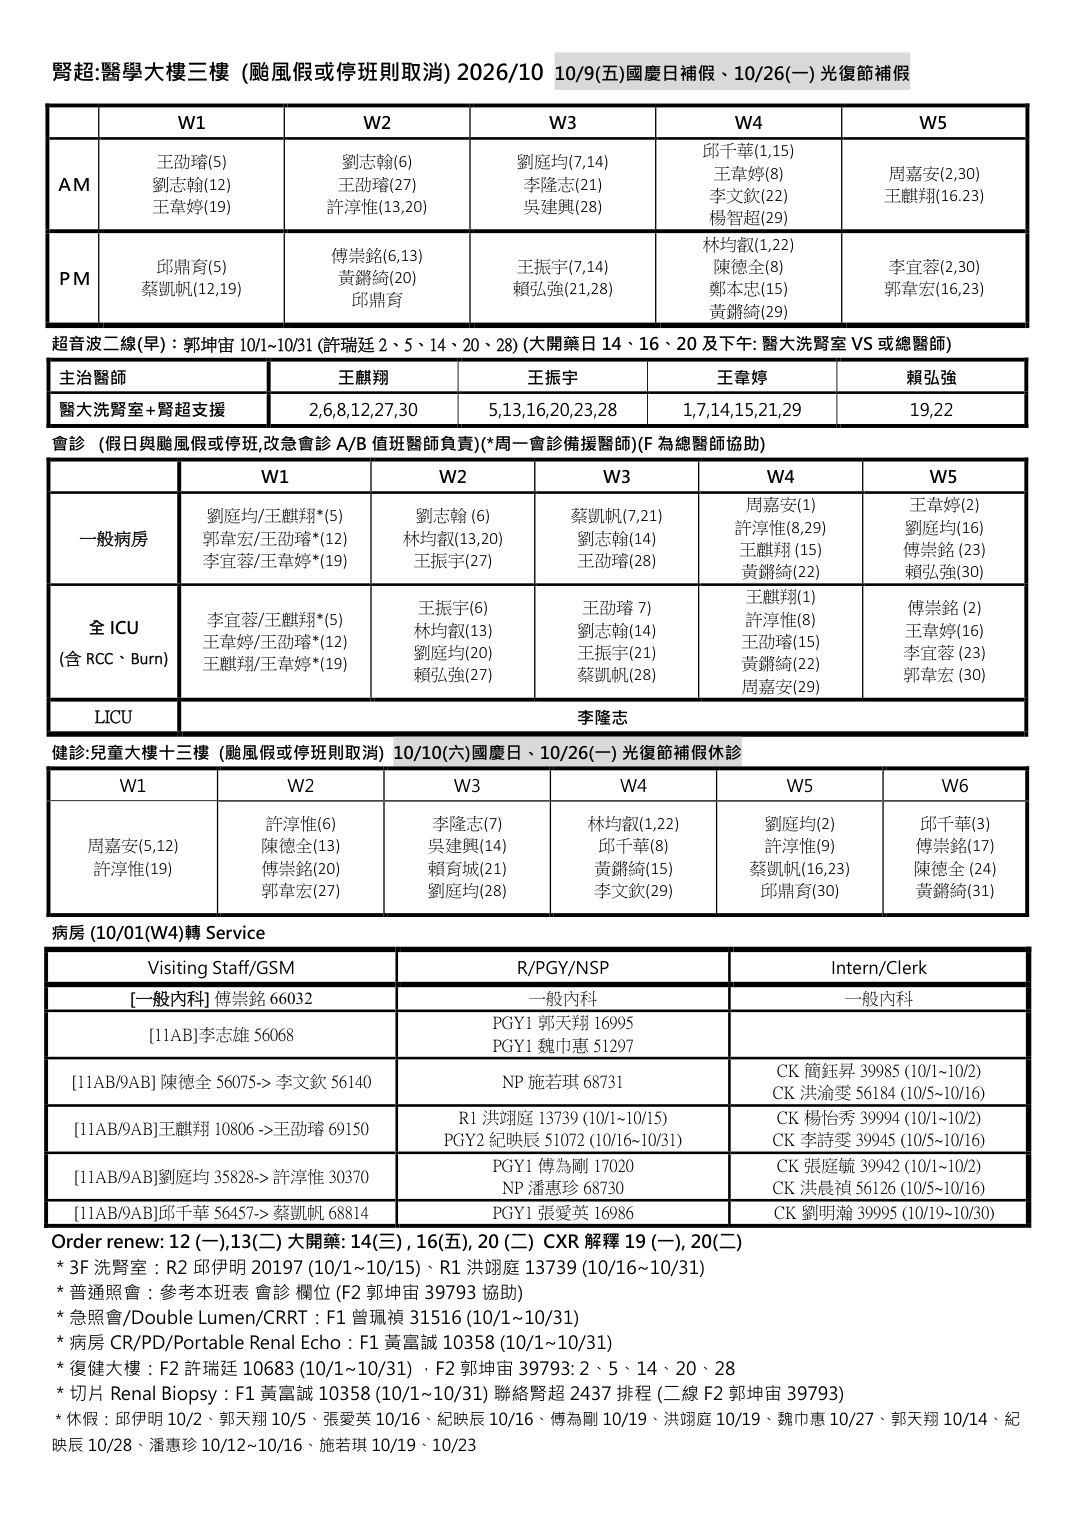
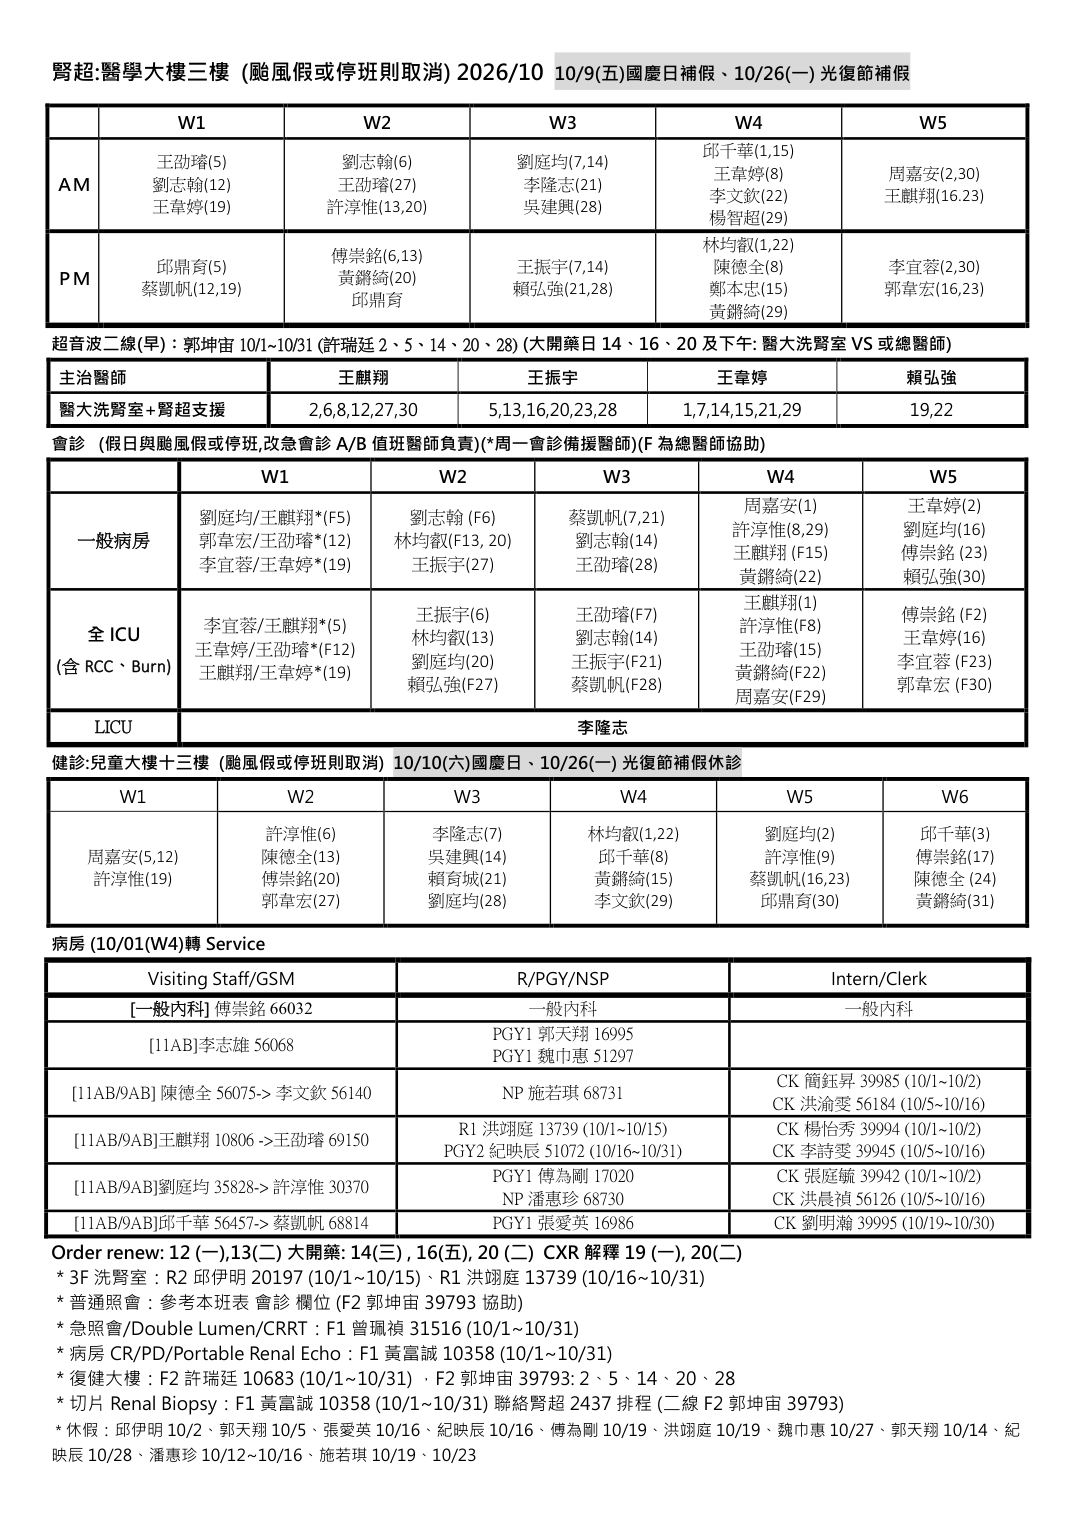
10月會診 F 標記:15天總醫師協助會診(郭坤宙)

Changed region(s): [[0.0307, 0.309, 0.9516, 0.9579], [0.8288, 0.927, 0.9516, 0.9579]]

diff --git a/js/schedule-data.js b/js/schedule-data.js
@@ -138,8 +138,24 @@ window.ScheduleData = {
       },
       icuMed:  [],
       icuSurg: [],
-      /* 會診欄位 F 標記(總醫師協助):where=一般病房/ICU,vs=該格主治醫師;待班表更新 */
-      consultFx: {},
+      /* 會診欄位 F 標記(總醫師協助):where=一般病房/ICU,vs=該格主治醫師 */
+      consultFx: {
+        2: [{ where: "ICU", vs: "傅崇銘" }],
+        5: [{ where: "一般病房", vs: "劉庭均/王麒翔*" }],
+        6: [{ where: "一般病房", vs: "劉志翰" }],
+        7: [{ where: "ICU", vs: "王劭璿" }],
+        8: [{ where: "ICU", vs: "許淳惟" }],
+        12: [{ where: "ICU", vs: "王韋婷/王劭璿*" }],
+        13: [{ where: "一般病房", vs: "林均叡" }],
+        15: [{ where: "一般病房", vs: "王麒翔" }],
+        21: [{ where: "ICU", vs: "王振宇" }],
+        22: [{ where: "ICU", vs: "黃鏘綺" }],
+        23: [{ where: "ICU", vs: "李宜蓉" }],
+        27: [{ where: "ICU", vs: "賴弘強" }],
+        28: [{ where: "ICU", vs: "蔡凱帆" }],
+        29: [{ where: "ICU", vs: "周嘉安" }],
+        30: [{ where: "ICU", vs: "郭韋宏" }]
+      },
       consultHelper: [{ from: 1, to: 31, name: "郭坤宙" }],
       /* 復健大樓代查:許瑞廷全月,2、5、14、20、28 由郭坤宙 */
       roundHelper: [

diff --git a/sw.js b/sw.js
@@ -1,5 +1,5 @@
 /* Service Worker — 頁面採網路優先(確保拿到新版),資源採快取優先+背景更新 */
-const VERSION = 'v1.83.0';
+const VERSION = 'v1.84.0';
 const CACHE = `secretary-${VERSION}`;
 const SHELL = [
   './',
